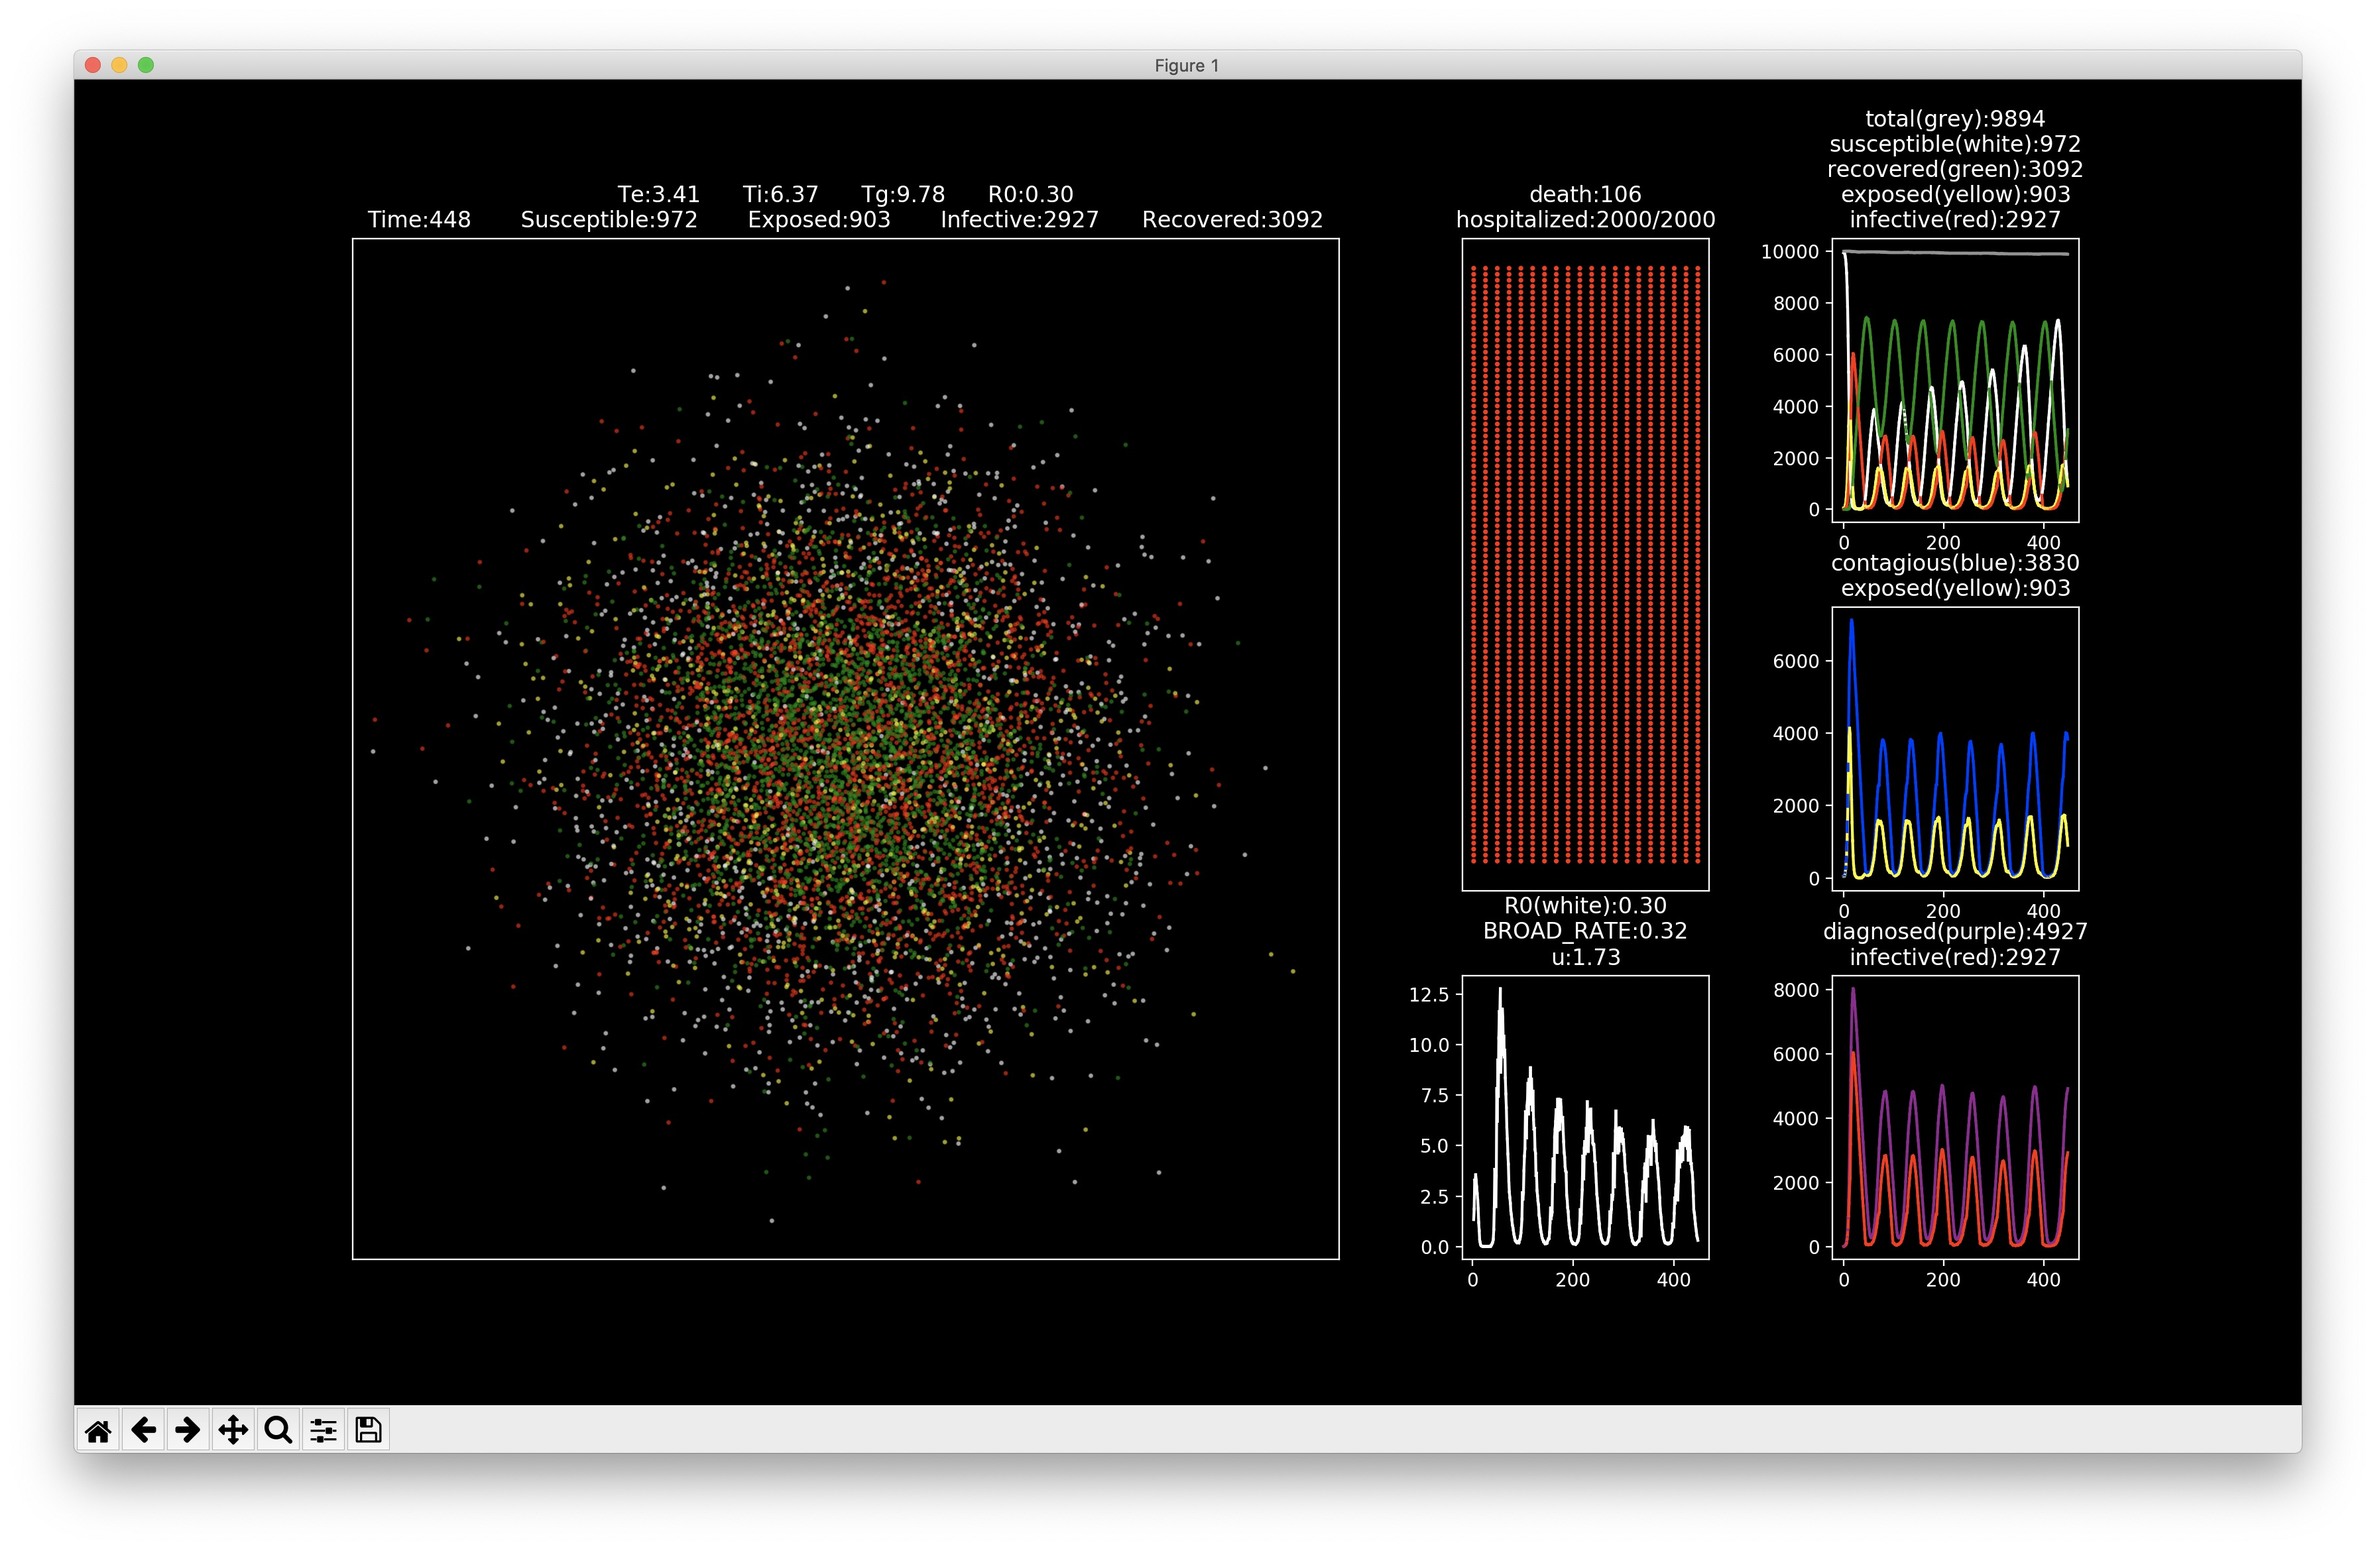
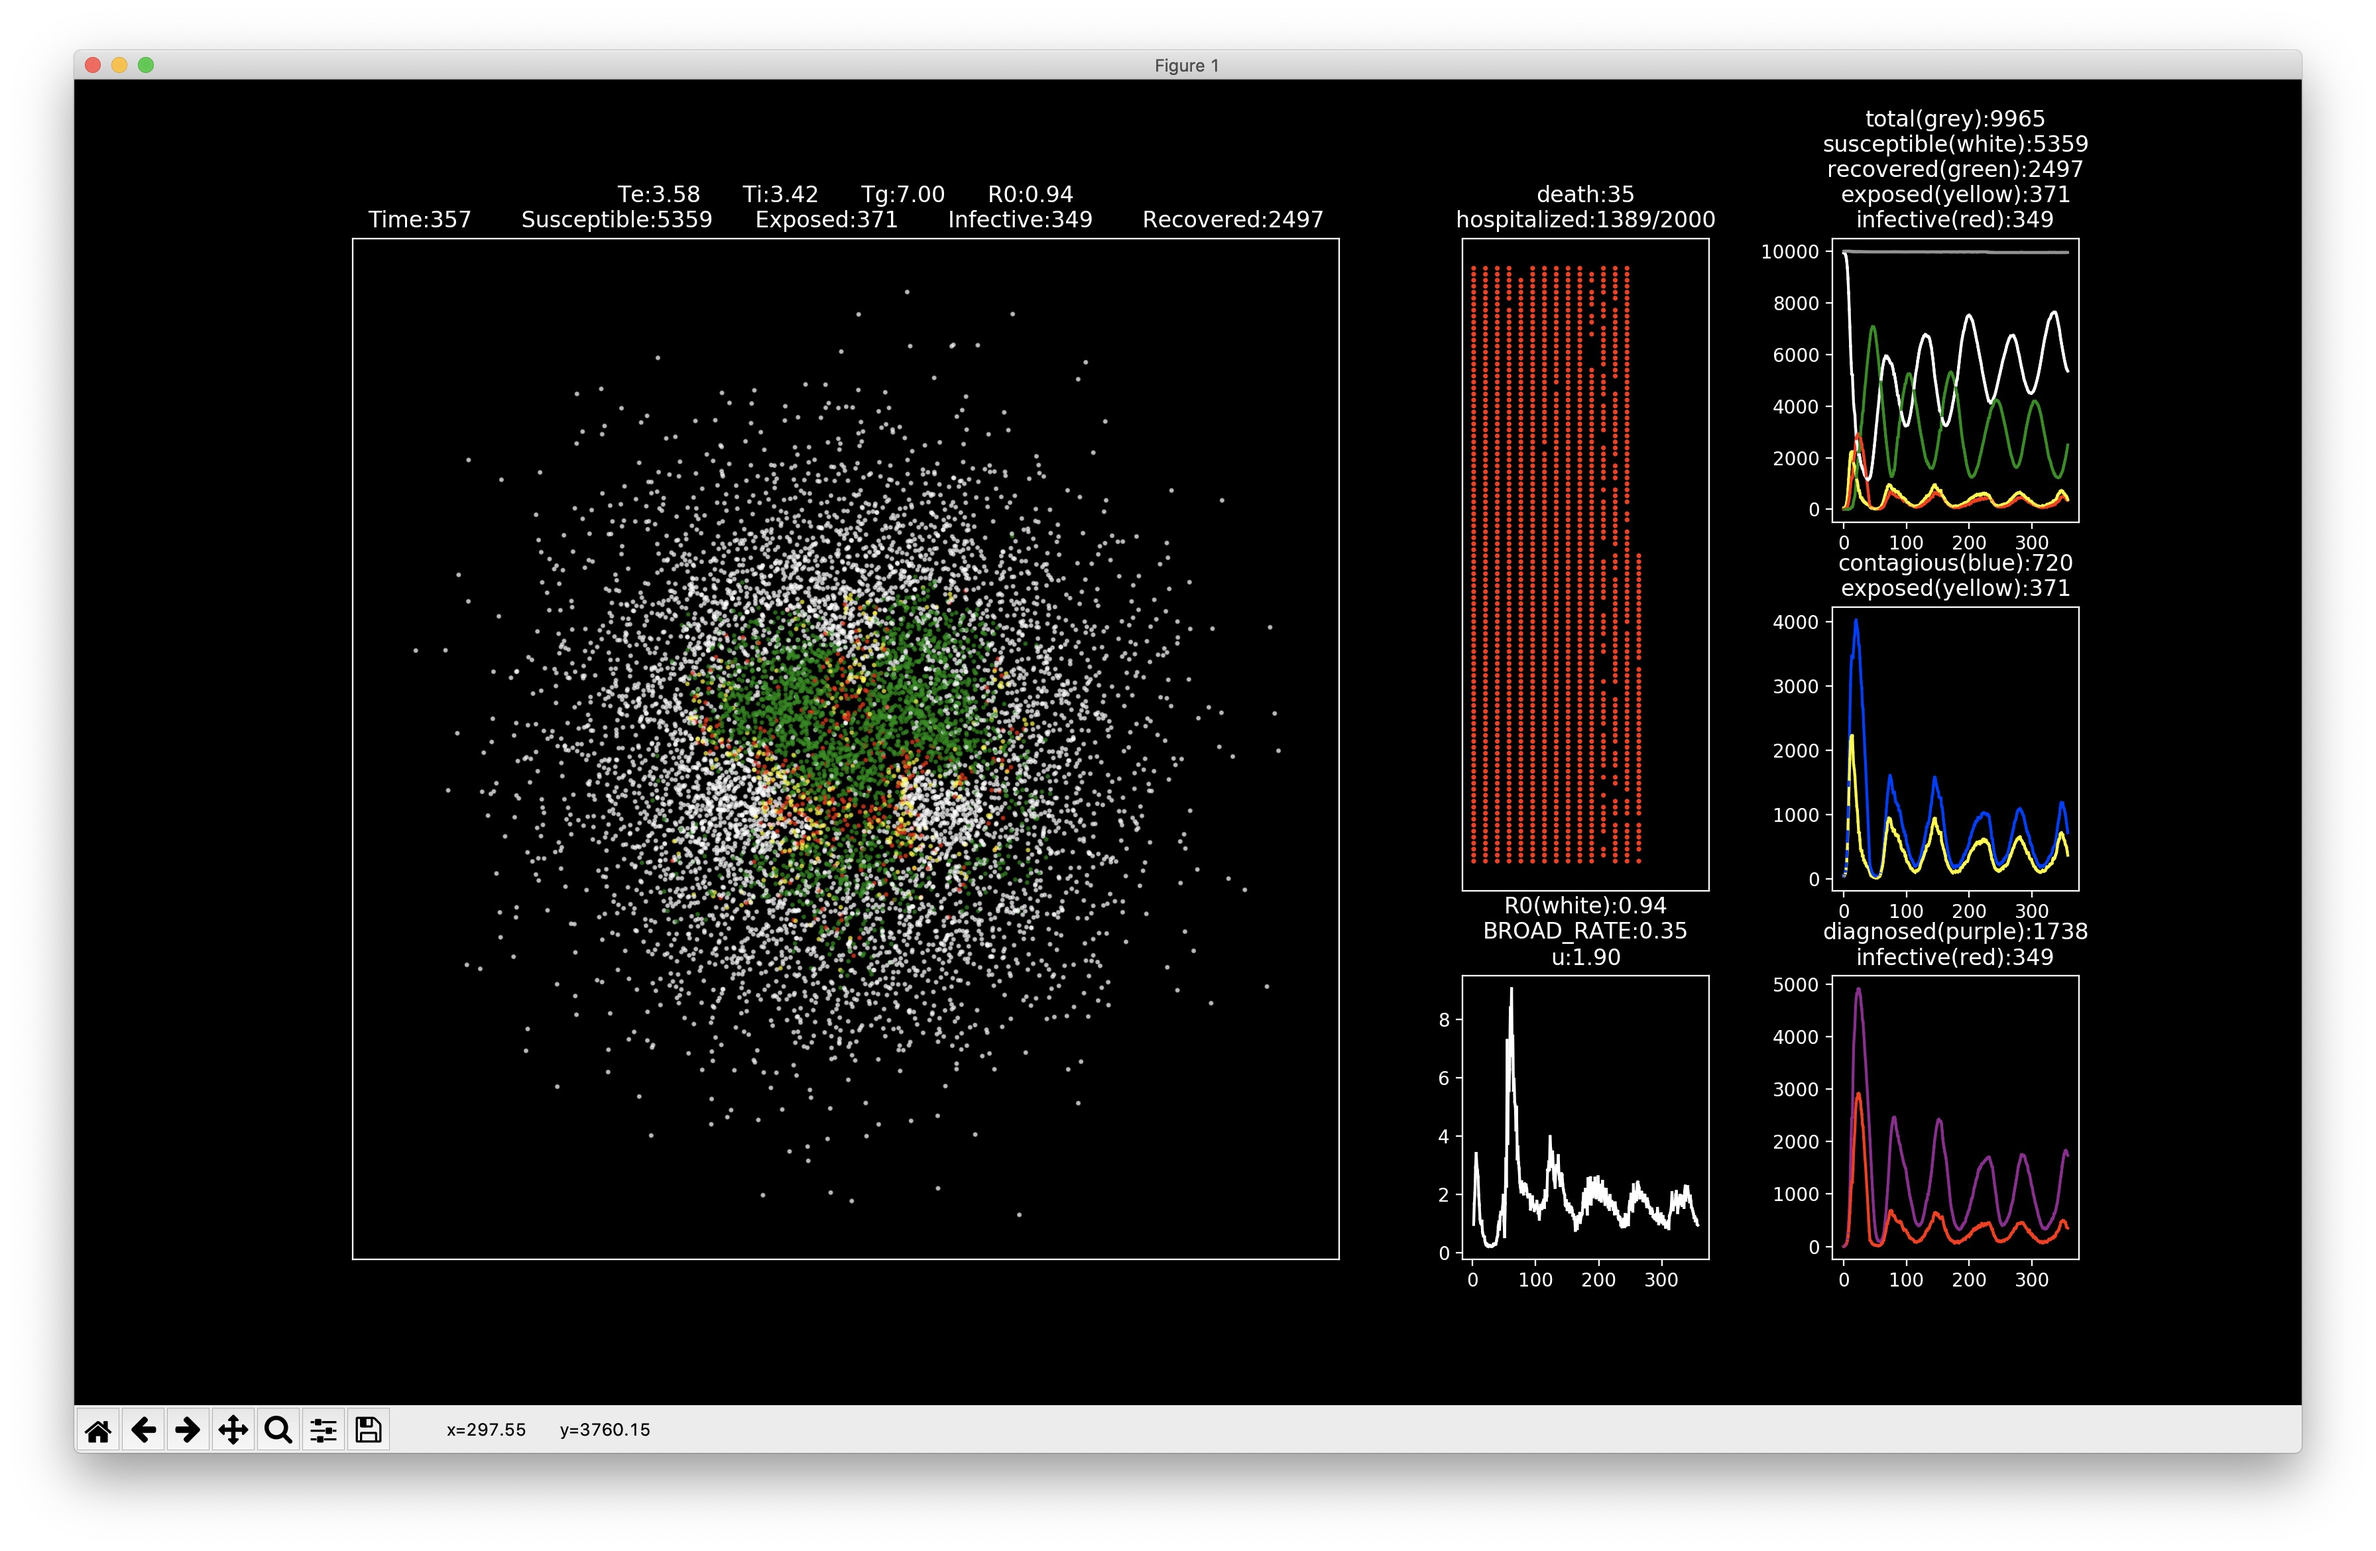
bug fix

diff --git a/peoplepool.py b/peoplepool.py
@@ -59,18 +59,16 @@ class PeoplePool:
 		else:
 			return self.peoples[:, status]
 
-	def getCoordinates(self, included=False, only=None):
-		if not included:
-			return self.peoples[(self.peoples[:,2] != 3) & (self.peoples[:,2] != 5)][:, [0, 1]]
-		elif only == 23:
+	def getCoordinates(self, only=None):
+		if only == 23:
 			if self.can_infect_status == [1, 2]:
-				return self.peoples[(self.peoples[:,2] == 1) | (self.peoples[:,2] == 2)][:, [0, 1]]
+				return self.peoples[(self.peoples[:,2] == 1) | (self.peoples[:,2] == 2)][:, [x, y]]
 			else:
-				return self.peoples[self.peoples[:,2] == 2][:, [0, 1]]
+				return self.peoples[self.peoples[:,2] == 2][:, [x, y]]
 		elif only == 1:
-			return self.peoples[self.peoples[:,2] == 0][:, [0, 1]]
+			return self.peoples[self.peoples[:,2] == 0][:, [x, y]]
 		else:
-			return self.peoples[:, [0, 1]]
+			return self.peoples[:, [x, y]]
 		
 
 	def update(self, time, hospital, cond):
@@ -86,8 +84,8 @@ class PeoplePool:
 		immune_time = np.random.normal(self.IMMUNED_TIME, self.FLUCTUATION, size=(self.num, 1))
 		peoples = self.peoples
 		coord = self.getCoordinates()
-		coord_susceptible = self.getCoordinates(True, 1)
-		coord_contagious = self.getCoordinates(True, 23)
+		coord_susceptible = self.getCoordinates(1)
+		coord_contagious = self.getCoordinates(23)
 		tree = cKDTree(coord)
 		tree_susceptible = cKDTree(coord_susceptible)
 		tree_contagious = cKDTree(coord_contagious)
